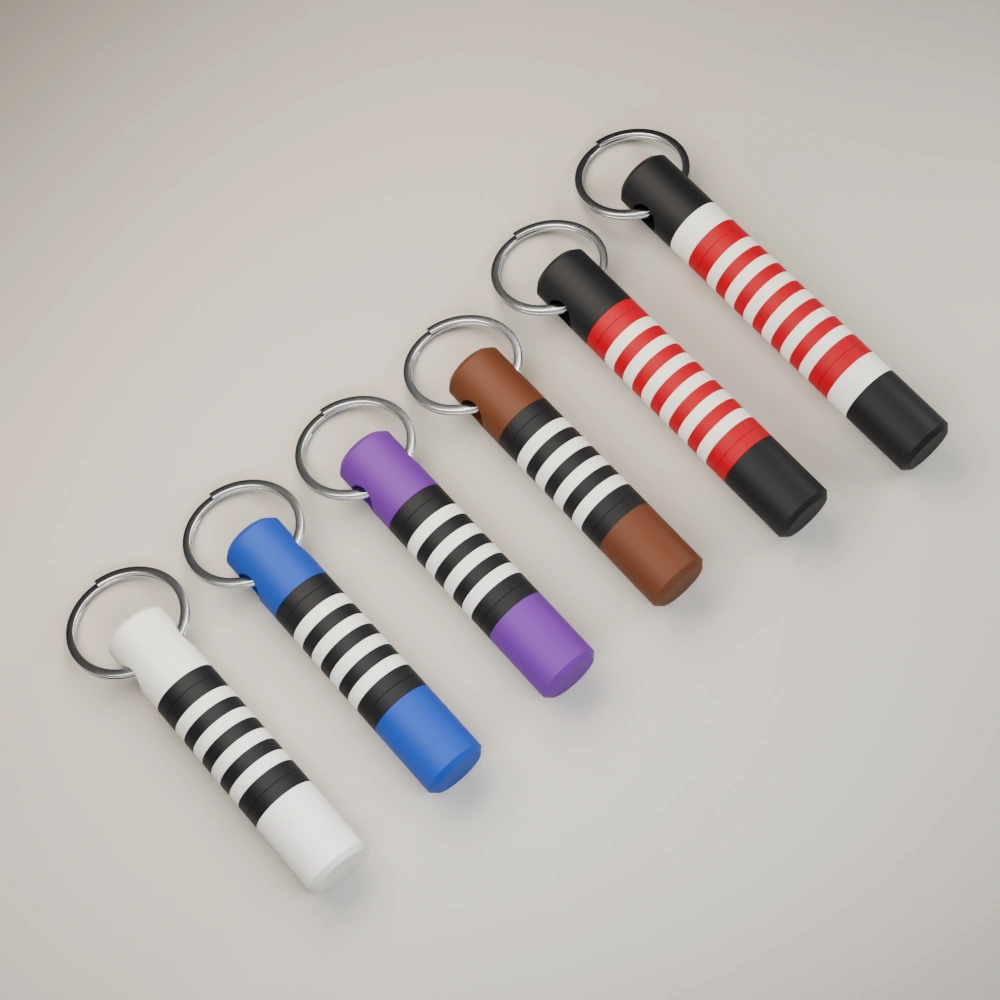
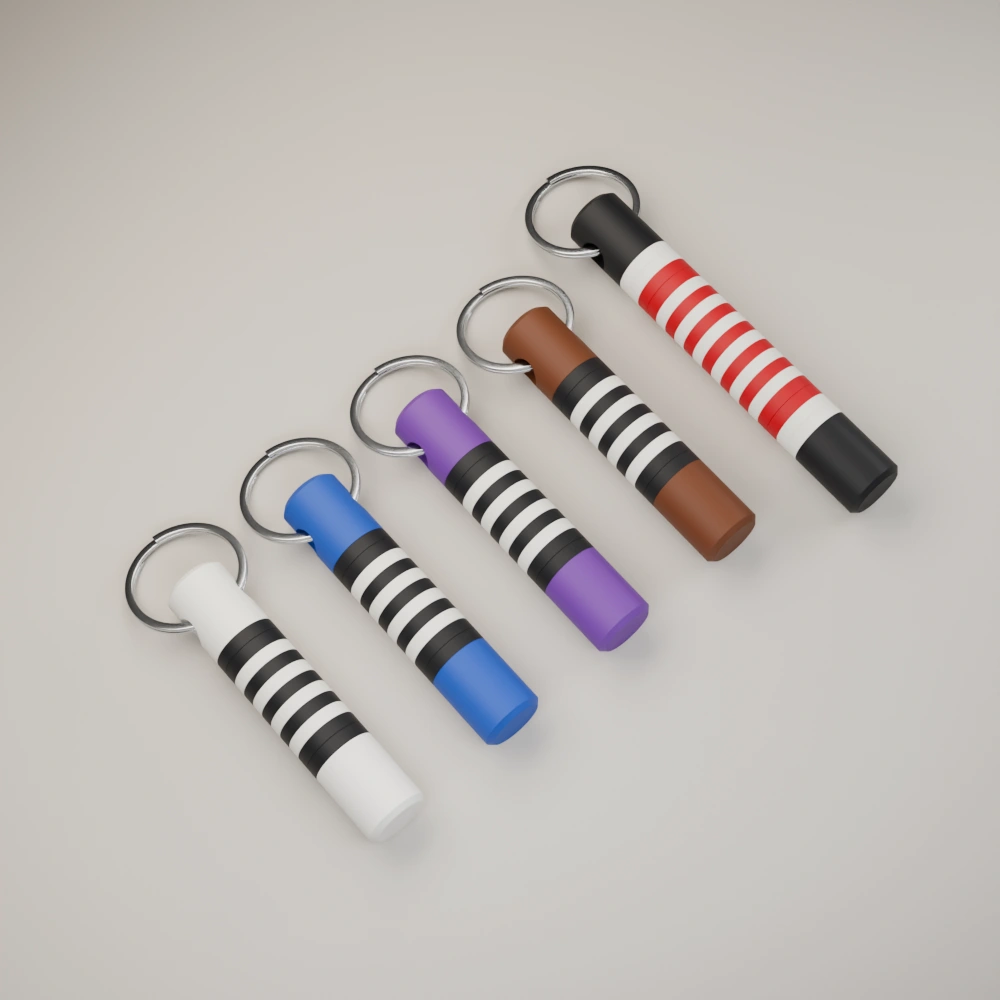
Add bilingual product details and correct the instructor set

Changed region(s): [[0.062, 0.124, 0.961, 0.868], [0.279, 0.868, 0.31, 0.899]]

diff --git a/src/config/copy.ts b/src/config/copy.ts
@@ -1,3 +1,28 @@
+import type { Language, ProductId } from './products';
+
+export const productDescriptions = {
+  en: {
+    white: 'A white belt keychain for the first steps on the mats. Rearrange the four white stripe rings set between black rings to match your rank.',
+    blue: 'A blue belt keychain to mark the move up from white. Rearrange the four white stripe rings set between black rings as you earn them.',
+    purple: 'A purple belt keychain for the years you’ve put in. Its black rank bar includes four white stripe rings that you can rearrange.',
+    brown: 'A brown belt keychain for the stretch before black. Move the four white stripe rings along the black rank bar to match your rank.',
+    black: 'The standard black belt keychain has a red rank bar with six white stripe rings. Unscrew the cap to rearrange them.',
+    'black-teacher': 'The instructor black belt has six white stripe rings along the red rank bar, framed by a wide white band at each end. Unscrew the cap to rearrange the stripes.',
+    bundle: 'Five keychains: white, blue, purple, brown, and standard black. Each includes its own rearrangeable stripe rings.',
+    'bundle-teacher': 'Five keychains: white, blue, purple, brown, and instructor black instead of standard black. The instructor belt has six white stripe rings and wide white bands at both ends of its red rank bar.',
+  },
+  es: {
+    white: 'Un llavero de cinturón blanco para tus primeros pasos en el tatami. Reordena los cuatro aros blancos de la barra negra para mostrar tu grado.',
+    blue: 'Un llavero de cinturón azul para recordar el paso del blanco al azul. Reordena los cuatro aros blancos entre los negros a medida que ganes rayas.',
+    purple: 'Un llavero de cinturón morado para recordar los años de entrenamiento. Su barra negra lleva cuatro aros blancos que puedes reordenar.',
+    brown: 'Un llavero de cinturón marrón para la etapa previa al negro. Mueve los cuatro aros blancos de la barra negra para mostrar tu grado.',
+    black: 'El cinturón negro estándar tiene una barra roja con seis aros blancos. Desenrosca el tapón para reordenarlos.',
+    'black-teacher': 'El cinturón negro de instructor tiene seis aros blancos en la barra roja y una franja blanca ancha en cada extremo. Desenrosca el tapón para reordenar las rayas.',
+    bundle: 'Cinco llaveros: blanco, azul, morado, marrón y negro estándar. Cada uno incluye sus propios aros de rayas que puedes reordenar.',
+    'bundle-teacher': 'Cinco llaveros: blanco, azul, morado, marrón y negro de instructor en lugar del negro estándar. El cinturón de instructor tiene seis aros blancos y una franja blanca ancha en cada extremo de la barra roja.',
+  },
+} satisfies Record<Language, Record<ProductId, string>>;
+
 export const copy = {
   en: {
     home: '/', otherHome: '/es/', otherLanguage: 'Español', otherLang: 'es',
@@ -8,8 +33,10 @@ export const copy = {
     bundleAlt: 'Five BJJ belt keychains in white, blue, purple, brown, and standard black',
     shopTitle: 'Pick your belt', shopText: 'One for your current rank, or the full set for the journey.',
     bundleDetail: 'White, blue, purple, brown and black.', decrement: 'Remove one', increment: 'Add one',
-    teacherBundleDetail: 'All five standard belts plus the instructor black belt.',
+    teacherBundleDetail: 'White, blue, purple, brown and instructor black.',
+    teacherBundleAlt: 'Five BJJ belt keychains in white, blue, purple, brown, and instructor black',
     separatePrice: 'Bought separately:',
+    closeDetails: 'Close product details',
     cartTitle: 'Your order', empty: 'Choose a belt to start your order.', total: 'Total before shipping',
     checkout: 'Checkout', pending: 'Opening checkout…', checkoutError: 'We couldn’t open checkout. Please try again.',
     priceChanged: 'Prices have changed. Please review your updated order before checking out.',
@@ -35,8 +62,10 @@ export const copy = {
     bundleAlt: 'Cinco llaveros de cinturón de BJJ: blanco, azul, morado, marrón y negro estándar',
     shopTitle: 'Elige tu cinturón', shopText: 'El de tu grado actual o la colección completa para todo el recorrido.',
     bundleDetail: 'Blanco, azul, morado, marrón y negro.', decrement: 'Quitar uno', increment: 'Añadir uno',
-    teacherBundleDetail: 'Los cinco cinturones estándar más el negro de instructor.',
+    teacherBundleDetail: 'Blanco, azul, morado, marrón y negro de instructor.',
+    teacherBundleAlt: 'Cinco llaveros de cinturón de BJJ: blanco, azul, morado, marrón y negro de instructor',
     separatePrice: 'Por separado:',
+    closeDetails: 'Cerrar detalles del producto',
     cartTitle: 'Tu pedido', empty: 'Elige un cinturón para empezar tu pedido.', total: 'Total sin envío',
     checkout: 'Ir al pago', pending: 'Abriendo el pago…', checkoutError: 'No pudimos abrir el pago. Inténtalo de nuevo.',
     priceChanged: 'Los precios han cambiado. Revisa tu pedido actualizado antes de ir al pago.',

diff --git a/src/styles/global.css b/src/styles/global.css
@@ -68,6 +68,9 @@ h1, h2, h3, .wordmark { font-family: var(--font-display); font-weight: 650; }
 .product { overflow: hidden; border-radius: 11px; border: 1px solid var(--line); background: var(--card); display: flex; flex-direction: column; }
 .product-image { aspect-ratio: 1; background: #d2cfc8; }
 .product-image img { width: 100%; height: 100%; object-fit: cover; }
+.product-trigger { text-align: start; }
+.product-trigger:focus-visible { outline-offset: -2px; }
+.product h3 .product-trigger:hover { text-decoration: underline; text-underline-offset: .16em; }
 .product-body { padding: 13px 14px 14px; flex: 1; display: flex; flex-direction: column; }
 .product h3 { font-size: clamp(1.01rem, 1.6vw, 1.29rem); line-height: 1.15; letter-spacing: -.025em; margin-bottom: 10px; }
 .product-price { font-size: .925rem; font-weight: 600; white-space: nowrap; }
@@ -78,6 +81,38 @@ h1, h2, h3, .wordmark { font-family: var(--font-display); font-weight: 650; }
 .stepper button:enabled:hover { background: #eeeae2; }
 .stepper button:disabled { color: #928c81; }
 .stepper output { text-align: center; font-size: .85rem; font-variant-numeric: tabular-nums; width: 24px; }
+
+body:has(.product-dialog[open]) { overflow: hidden; }
+.product-dialog {
+  position: fixed; inset: 0; margin: auto; width: min(740px, calc(100% - 40px)); max-height: 85dvh;
+  border: 1px solid var(--line); border-radius: 16px; background: var(--card); color: var(--ink);
+  overflow: auto; overscroll-behavior: contain; box-shadow: 0 18px 60px #25241f33;
+}
+.product-dialog::backdrop { background: #25241f80; }
+.product-dialog-content { position: relative; display: grid; grid-template-columns: 1fr 1fr; align-items: center; }
+.product-dialog-image { width: 100%; aspect-ratio: 1; object-fit: contain; background: #d2cfc8; }
+.product-dialog-body { padding: 48px 26px 28px; }
+.product-dialog-body h2 { font-size: clamp(1.5rem, 3vw, 2.15rem); line-height: 1.1; letter-spacing: -.035em; }
+.product-dialog-body > p { margin-block: 12px 22px; color: var(--muted); font-size: .93rem; line-height: 1.55; }
+.product-dialog-close {
+  position: absolute; inset: 12px 12px auto auto; display: grid; place-items: center;
+  width: 40px; height: 40px; border: 1px solid var(--line); border-radius: 50%;
+  background: var(--card); font-size: 1.5rem; line-height: 1;
+}
+.product-dialog-close:hover { background: var(--paper); }
+
+@media (width < 640px) {
+  .product-dialog {
+    inset: auto 0 0; margin: 0; width: 100%; max-width: none;
+    border-radius: 18px 18px 0 0; border-inline: 0; border-bottom: 0;
+  }
+  .product-dialog[open] { animation: product-sheet-in .22s ease-out; }
+  .product-dialog-content { grid-template-columns: 1fr; }
+  .product-dialog-image { max-height: 43dvh; }
+  .product-dialog-body { padding: 20px 20px max(22px, env(safe-area-inset-bottom)); }
+}
+@keyframes product-sheet-in { from { transform: translateY(100%); } }
+@media (prefers-reduced-motion: reduce) { .product-dialog[open] { animation: none; } }
 
 .order { position: sticky; top: 20px; }
 .cart { background: #eeebe3; border: 1px solid var(--line); border-radius: 11px; padding: 20px; }

diff --git a/src/config/products.ts b/src/config/products.ts
@@ -9,17 +9,17 @@ export const products = [
   { id: 'black', name: { en: 'Black belt', es: 'Cinturón negro' }, image: '/belt-black.webp', unitPrice: SINGLE_PRICE, stripeProductId: 'prod_VhbX9RG0lYJ8iE', stripeProductEnv: 'STRIPE_PRODUCT_BLACK' },
   { id: 'black-teacher', name: { en: 'Instructor black belt', es: 'Cinturón negro de instructor' }, image: '/belt-black-teacher.webp', unitPrice: 1_100, stripeProductId: 'prod_VhyQK5ho6ZwNv9', stripeProductEnv: 'STRIPE_PRODUCT_BLACK_TEACHER' },
   { id: 'bundle', name: { en: 'Full set: all 5 belts', es: 'Colección completa: los 5 cinturones' }, image: '/belt-bundle.webp', unitPrice: 3_900, stripeProductId: 'prod_VhbXBXCE5U2WUM', stripeProductEnv: 'STRIPE_PRODUCT_BUNDLE' },
-  { id: 'bundle-teacher', name: { en: 'Full set + instructor belt', es: 'Colección completa + cinturón de instructor' }, image: '/belt-bundle-teacher.webp', unitPrice: 4_900, stripeProductId: 'prod_VhyQMd5IrwhtHH', stripeProductEnv: 'STRIPE_PRODUCT_BUNDLE_TEACHER' },
+  { id: 'bundle-teacher', name: { en: 'Full set with instructor black belt', es: 'Colección completa con cinturón negro de instructor' }, image: '/belt-bundle-teacher.webp', unitPrice: 4_000, stripeProductId: 'prod_VhyQMd5IrwhtHH', stripeProductEnv: 'STRIPE_PRODUCT_BUNDLE_TEACHER' },
 ] as const;
 
 export type Product = (typeof products)[number];
 export type ProductId = Product['id'];
 export type Language = keyof Product['name'];
 
-const standardBelts = ['white', 'blue', 'purple', 'brown', 'black'] as const;
+const coloredBelts = ['white', 'blue', 'purple', 'brown'] as const;
 const bundleContents: Partial<Record<ProductId, readonly ProductId[]>> = {
-  bundle: standardBelts,
-  'bundle-teacher': [...standardBelts, 'black-teacher'],
+  bundle: [...coloredBelts, 'black'],
+  'bundle-teacher': [...coloredBelts, 'black-teacher'],
 };
 const fallbackPrices = new Map<ProductId, number>(products.map(({ id, unitPrice }) => [id, unitPrice]));
 

diff --git a/tests/prices.test.ts b/tests/prices.test.ts
@@ -27,7 +27,7 @@ function catalog(env: Context['env'] = { STRIPE_SECRET_KEY: 'not-a-real-key' }) 
 test('returns a cacheable catalog of current cents by storefront ID', async () => {
   const stripe = mock(async (url: URL) => {
     expect(url.searchParams.get('expand[]')).toBe('default_price');
-    const amounts: Record<string, number> = { prod_bundle_test: 3900, prod_VhyQK5ho6ZwNv9: 1100, prod_VhyQMd5IrwhtHH: 4900 };
+    const amounts: Record<string, number> = { prod_bundle_test: 3900, prod_VhyQK5ho6ZwNv9: 1100, prod_VhyQMd5IrwhtHH: 4000 };
     return price(amounts[url.pathname.split('/').at(-1)!] ?? 900);
   });
   globalThis.fetch = stripe as unknown as typeof fetch;
@@ -38,7 +38,7 @@ test('returns a cacheable catalog of current cents by storefront ID', async () =
 
   const result = catalog({ STRIPE_SECRET_KEY: 'not-a-real-key', STRIPE_PRODUCT_BUNDLE: 'prod_bundle_test' });
   const response = await result.response;
-  const expected = { white: 900, blue: 900, purple: 900, brown: 900, black: 900, 'black-teacher': 1100, bundle: 3900, 'bundle-teacher': 4900 };
+  const expected = { white: 900, blue: 900, purple: 900, brown: 900, black: 900, 'black-teacher': 1100, bundle: 3900, 'bundle-teacher': 4000 };
   expect(response.status).toBe(200);
   expect(response.headers.get('Cache-Control')).toBe('public, max-age=300');
   expect(await response.json()).toEqual(expected);

diff --git a/tests/products.test.ts b/tests/products.test.ts
@@ -3,17 +3,17 @@ import { getCompareAtPrice, getFallbackPrice, type ProductId } from '../src/conf
 
 test('compares the two bundle fallback prices to the correct sets of individual belts', () => {
   expect(getFallbackPrice('bundle')).toBe(3900);
-  expect(getFallbackPrice('bundle-teacher')).toBe(4900);
+  expect(getFallbackPrice('bundle-teacher')).toBe(4000);
   expect(getCompareAtPrice('bundle')).toBe(4500);
-  expect(getCompareAtPrice('bundle-teacher')).toBe(5600);
+  expect(getCompareAtPrice('bundle-teacher')).toBe(4700);
   expect(getCompareAtPrice('black-teacher')).toBeNull();
 });
 
 test('uses current component prices and hides compare-at prices that are not savings', () => {
-  const overrides: Partial<Record<ProductId, number>> = { blue: 1000, 'black-teacher': 1400, bundle: 4600, 'bundle-teacher': 6100 };
+  const overrides: Partial<Record<ProductId, number>> = { blue: 1000, black: 1800, 'black-teacher': 1400, bundle: 5500, 'bundle-teacher': 5100 };
   const price = (id: ProductId) => overrides[id] ?? getFallbackPrice(id);
   expect(getCompareAtPrice('bundle', price)).toBeNull();
   expect(getCompareAtPrice('bundle-teacher', price)).toBeNull();
-  overrides['bundle-teacher'] = 5900;
-  expect(getCompareAtPrice('bundle-teacher', price)).toBe(6000);
+  overrides['bundle-teacher'] = 5000;
+  expect(getCompareAtPrice('bundle-teacher', price)).toBe(5100);
 });

diff --git a/README.md b/README.md
@@ -15,12 +15,12 @@ Use `bun run dev` to work on the static storefront without the checkout function
 
 ## Stripe setup
 
-1. In Stripe test mode, create six individual products (white, blue, purple, brown, standard black, instructor black) and two bundle products (the five standard belts, and the five standard belts plus instructor black).
+1. In Stripe test mode, create six individual products (white, blue, purple, brown, standard black, instructor black) and two five-belt bundle products: each includes white, blue, purple, and brown, plus either standard black or instructor black.
 2. Give each product an active one-time EUR price and set it as the product's **default price**. The site uses the Product IDs (`prod_…`) in `src/config/products.ts`. For a different catalog, override them with the `STRIPE_PRODUCT_*` bindings listed in `.dev.vars.example`. The previous `STRIPE_PRICE_*` bindings are no longer used.
 3. Set `STRIPE_SECRET_KEY` to the secret key for the same catalog and mode as those Product IDs. Use a test key for local and preview environments.
 4. To change a price, create a new one-time EUR price in Stripe and set it as the product's default. No site edit, webhook or redeploy is needed.
 
-The storefront starts with static fallback prices (€9 per standard belt, €11 for instructor black, €39 for the standard bundle, and €49 for the instructor bundle) and loads Stripe prices through `/api/prices`. A complete catalog is cached for five minutes. Each bundle shows the sum of its individual belt prices crossed out if that sum exceeds the bundle price. Checkout always checks the current Stripe defaults, and if a displayed price is stale, it updates the cart and asks the buyer to review it before starting payment.
+The storefront starts with static fallback prices (€9 per standard belt, €11 for instructor black, €39 for the standard bundle, and €40 for the instructor bundle) and loads Stripe prices through `/api/prices`. A complete catalog is cached for five minutes. Each bundle shows the sum of its individual belt prices crossed out if that sum exceeds the bundle price. Checkout always checks the current Stripe defaults, and if a displayed price is stale, it updates the cart and asks the buyer to review it before starting payment.
 
 Checkout offers free hand delivery at the academy or €5 shipping to peninsular Spain. Stripe collects a phone number and a Spanish shipping address whichever option is picked. The country filter accepts all Spanish addresses; verify that the destination is in peninsular Spain before capturing an order with shipping.
 
